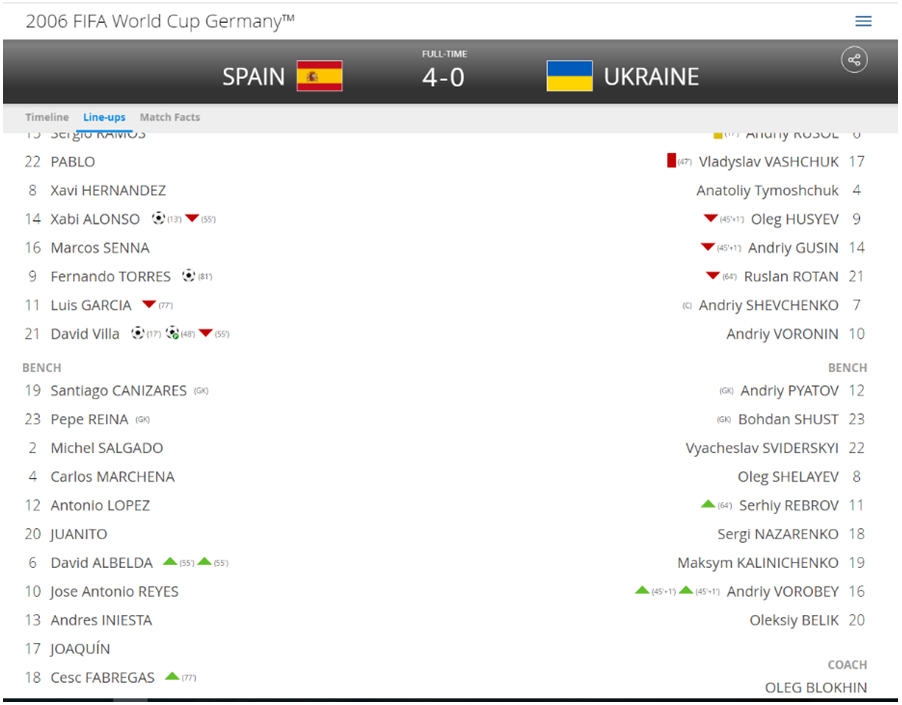
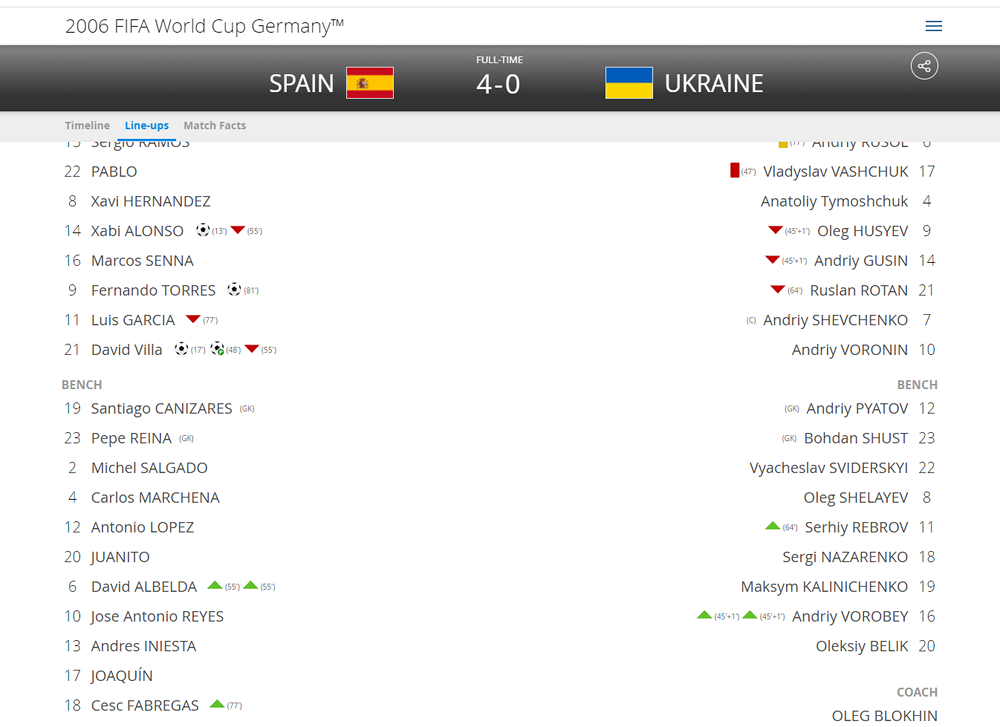
Исправил предупреждения от w3 validator

Changed region(s): [[0.0, 0.0, 1.0, 0.9986], [0.6829, 0.1872, 0.9623, 0.905]]

diff --git a/docs/koloskov_typos.html b/docs/koloskov_typos.html
@@ -24,7 +24,7 @@
 <p class="text">До реформы все замены между таймами обозначались буквами — Иванов (46HT) означало, что Иванов вышел играть со второго тайма, с его самого начала, буквы HT (half time по-английски) и говорили, что он вошёл в игру до свистка к началу тайма. Возможны ведь и замены просто на 46-й минуте, тогда Иванов (46). Между прочим, на ЧМ-2018 была замена на 47-й минуте. Кроме HT могли быть буквы FT (full-time, после 90 минут игры, перед овертаймом) или ET (extra-time, между 15-минутными таймами). Эти нюансы влияют на подсчёт минут, сыгранных футболистом в матче. Но сегодня сайт ФИФА не заморачивается — Иванов (45+1) без всяких букв. В том числе и для всех предыдущих чемпионатов, когда никакого компенсированного времени и в помине не было. Так что и первая в истории чемпионатов мира замена в матче Мексика — СССР в 1970 г. выглядит так: Виктор Серебряников ушёл, а Анатолий Пузач вошёл на 45+1 минуте. Дорогие реформаторы, при такой записи возможен только один вариант истолкования — замена произведена в компенсированное время ещё в первом тайме. Значит тому, кого заменили оставят 44 сыгранные минуты, а вышедшему на замену отдадут арифметическую разность между 90 и 44 в минутах, если он доиграет матч до конца. А ведь именно так сейчас и отражают на сайте ФИФА замены в перерыве между таймами. А гол, например, был забит на 45+3 минуте — однозначно ведь в первом тайме!</p>
 <p class="text">Простой пример. ЧМ-2006, сборная Украины. В первом же матче с Испанией Олег Блохин делает сразу две замены в перерыве. В разделе Line-Ups на сайте ФИФА видим двоих из стартового состава с красными треугольниками вершиной вниз и цифрами 45+1, это Гусин и Гусев. В резервистах же видим чудо-чудное — напротив фамилии Воробей аж дважды указаны зелёные треугольники вершиной вверх с цифрами 45+1. Один Воробей заменил двоих разом. И этот бардак не только у Украины, у всех, кто сразу делал две замены. У Испании то же самое, кстати. А в последней игре с Италией Блохину пришлось менять получившего травму Русола в компенсированное время первого тайма. Ващук вышел на 45+2 минуте, всё правильно. Но если б была ещё замена в перерыве, то она бы была прописана как 45+1. Почувствуйте разницу. Какая уж тут статистика…<br>
 Тут я даже не ссылку дам, а скриншот сайта ФИФА.<br>
-<div align="center"><img src='images/koloskov_typos_1.png' alt=''></div></p>
+<div align="center"><img src='images/koloskov_typos_1.png' alt='' width='65%' style="min-width: 650px"></div></p>
 	
 <p class="text">Раньше на сайте ФИФА был почти полный протокол каждого матча, сейчас протокол свёрнут в файл pdf в разделе Match Facts, но только для турниров 2014 и 2018 годов. Остальное всё исчезло бесследно. Никакие старые ссылки уже не открываются, никакой сводной информации по каждому игроку по всем турнирам под эгидой ФИФА теперь нет. Да и по отдельно взятому турниру информация по всем игрокам пропала. Оптимизация, однако…</p>
 <p class="text">Но всё-таки не об этом наш рассказ. Накопилось несколько непонятных фактов, которые упрямо из источника в источник передаются и ретранслируются. А факты, мягко говоря, не соответствуют действительности. И это не всегда опечатки.</p>
